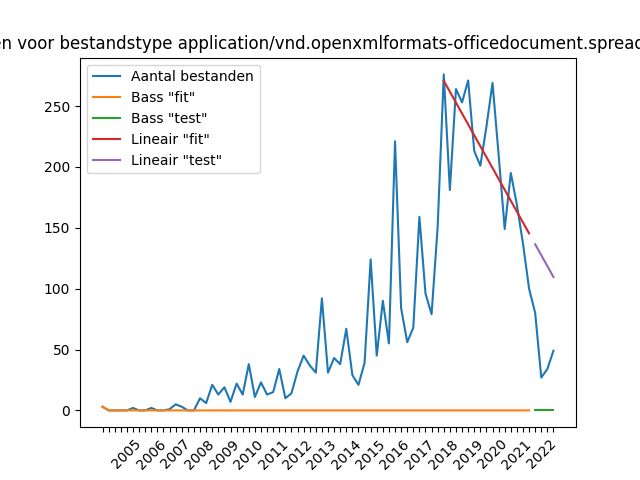
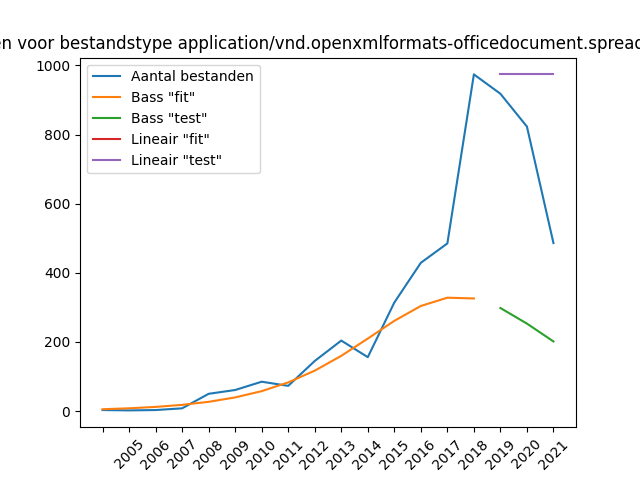
aggregate to yearly counts

diff --git a/analysis/dans_analysis.py b/analysis/dans_analysis.py
@@ -6,7 +6,7 @@ from typing import List, Tuple
 import numpy as np
 
 from analysis.config import Config, load_config
-from analysis.shared_parsers import to_pruned_sorted_quarterly, PeriodicFiletypeCount, plot_counts
+from analysis.shared_parsers import PeriodicFiletypeCount, plot_counts, to_sorted_yearly
 
 
 def main(config: Config) -> int:
@@ -30,11 +30,11 @@ def main(config: Config) -> int:
     for (filetype, counts_for_type) in sorted(filetype_counts, key=lambda x: x[1], reverse=True):
         logging.info(f'{filetype} has a total of {counts_for_type} files')
 
-    quarterly_stats = to_pruned_sorted_quarterly(monthly_stats)
+    yearly_stats = to_sorted_yearly(monthly_stats)
 
     # Keep only file types with more than the configured number of measurements and which are part of the selection
     keep_filetypes: List[str] = []
-    for filetype, quarterly_counts in quarterly_stats.items():
+    for filetype, quarterly_counts in yearly_stats.items():
         counts_reversed = list(reversed(quarterly_counts))
 
         # prune 0-counts
@@ -61,7 +61,7 @@ def main(config: Config) -> int:
         keep_filetypes.append(filetype)
 
     logging.info(f'Keeping {len(keep_filetypes)} filetypes for analysis: {keep_filetypes}')
-    kept_counts = {filetype: counts for filetype, counts in quarterly_stats.items() if filetype in keep_filetypes}
+    kept_counts = {filetype: counts for filetype, counts in yearly_stats.items() if filetype in keep_filetypes}
     plot_counts(kept_counts, dans_cfg)
 
     return 0
